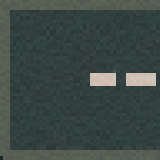
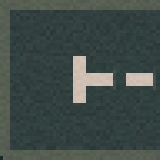
feat(studio): T-shaped dead-end paint on road end tiles
Road end tiles now terminate the centre line the way the reference
sprites do — a standard first dash, a second dash running long into a
perpendicular crossbar just past the tile centre. Geometry measured from
`road-end-n.png` (crossbar 1.125 x 0.34 world, stub 0.66). Comparison in
`studio/out/end-compare-4x.png`; road demo map refreshed.

Changed region(s): [[0.4375, 0.3438, 0.5625, 0.6562], [0.9375, 0.4375, 1.0, 0.5312], [0.6875, 0.4375, 0.75, 0.5312]]

diff --git a/studio/scenes/road.py b/studio/scenes/road.py
@@ -51,6 +51,18 @@ def _dashes(mats, points, period):
         s += period
 
 
+def _end_cap(mats, edge):
+    """Dead-end paint (measured from road-end-n.png): a standard first dash,
+    a second dash running long into a perpendicular crossbar just past the
+    tile centre — the T-shaped terminus marking."""
+    dx, dy = EDGE_POINTS[edge]
+    ang = math.atan2(dy, dx)
+    at = lambda s: (dx * (2 - s), dy * (2 - s), 0.06)
+    box(mats, 'marking', at(0.5), (DASH_LEN, DASH_W, 0.04), (0, 0, ang))       # dash
+    box(mats, 'marking', at(1.485), (0.66, DASH_W, 0.04), (0, 0, ang))         # stub
+    box(mats, 'marking', at(1.985), (0.34, 1.125, 0.04), (0, 0, ang))          # crossbar
+
+
 def build(mats):
     edges = VARIANTS[VARIANT]
 
@@ -76,9 +88,12 @@ def build(mats):
         _dashes(mats, sample_full_straight(a, b), STRAIGHT_PERIOD)
     elif pair:
         _dashes(mats, sample_arc(*pair), ARC_PERIOD)
+    elif len(edges) == 1:
+        # Dead end: dashes terminate in the T-shaped end cap.
+        _end_cap(mats, next(iter(edges)))
     else:
-        # Ends, tees, crossings: dash each connected half toward the centre;
-        # the half-length (2.0) cuts the second full dash so junction cores
-        # stay clean automatically.
+        # Tees, crossings: dash each connected half toward the centre; the
+        # half-length (2.0) cuts the second full dash so junction cores stay
+        # clean automatically.
         for edge in sorted(edges):
             _dashes(mats, list(reversed(sample_straight(edge, start=0.0))), STRAIGHT_PERIOD)
